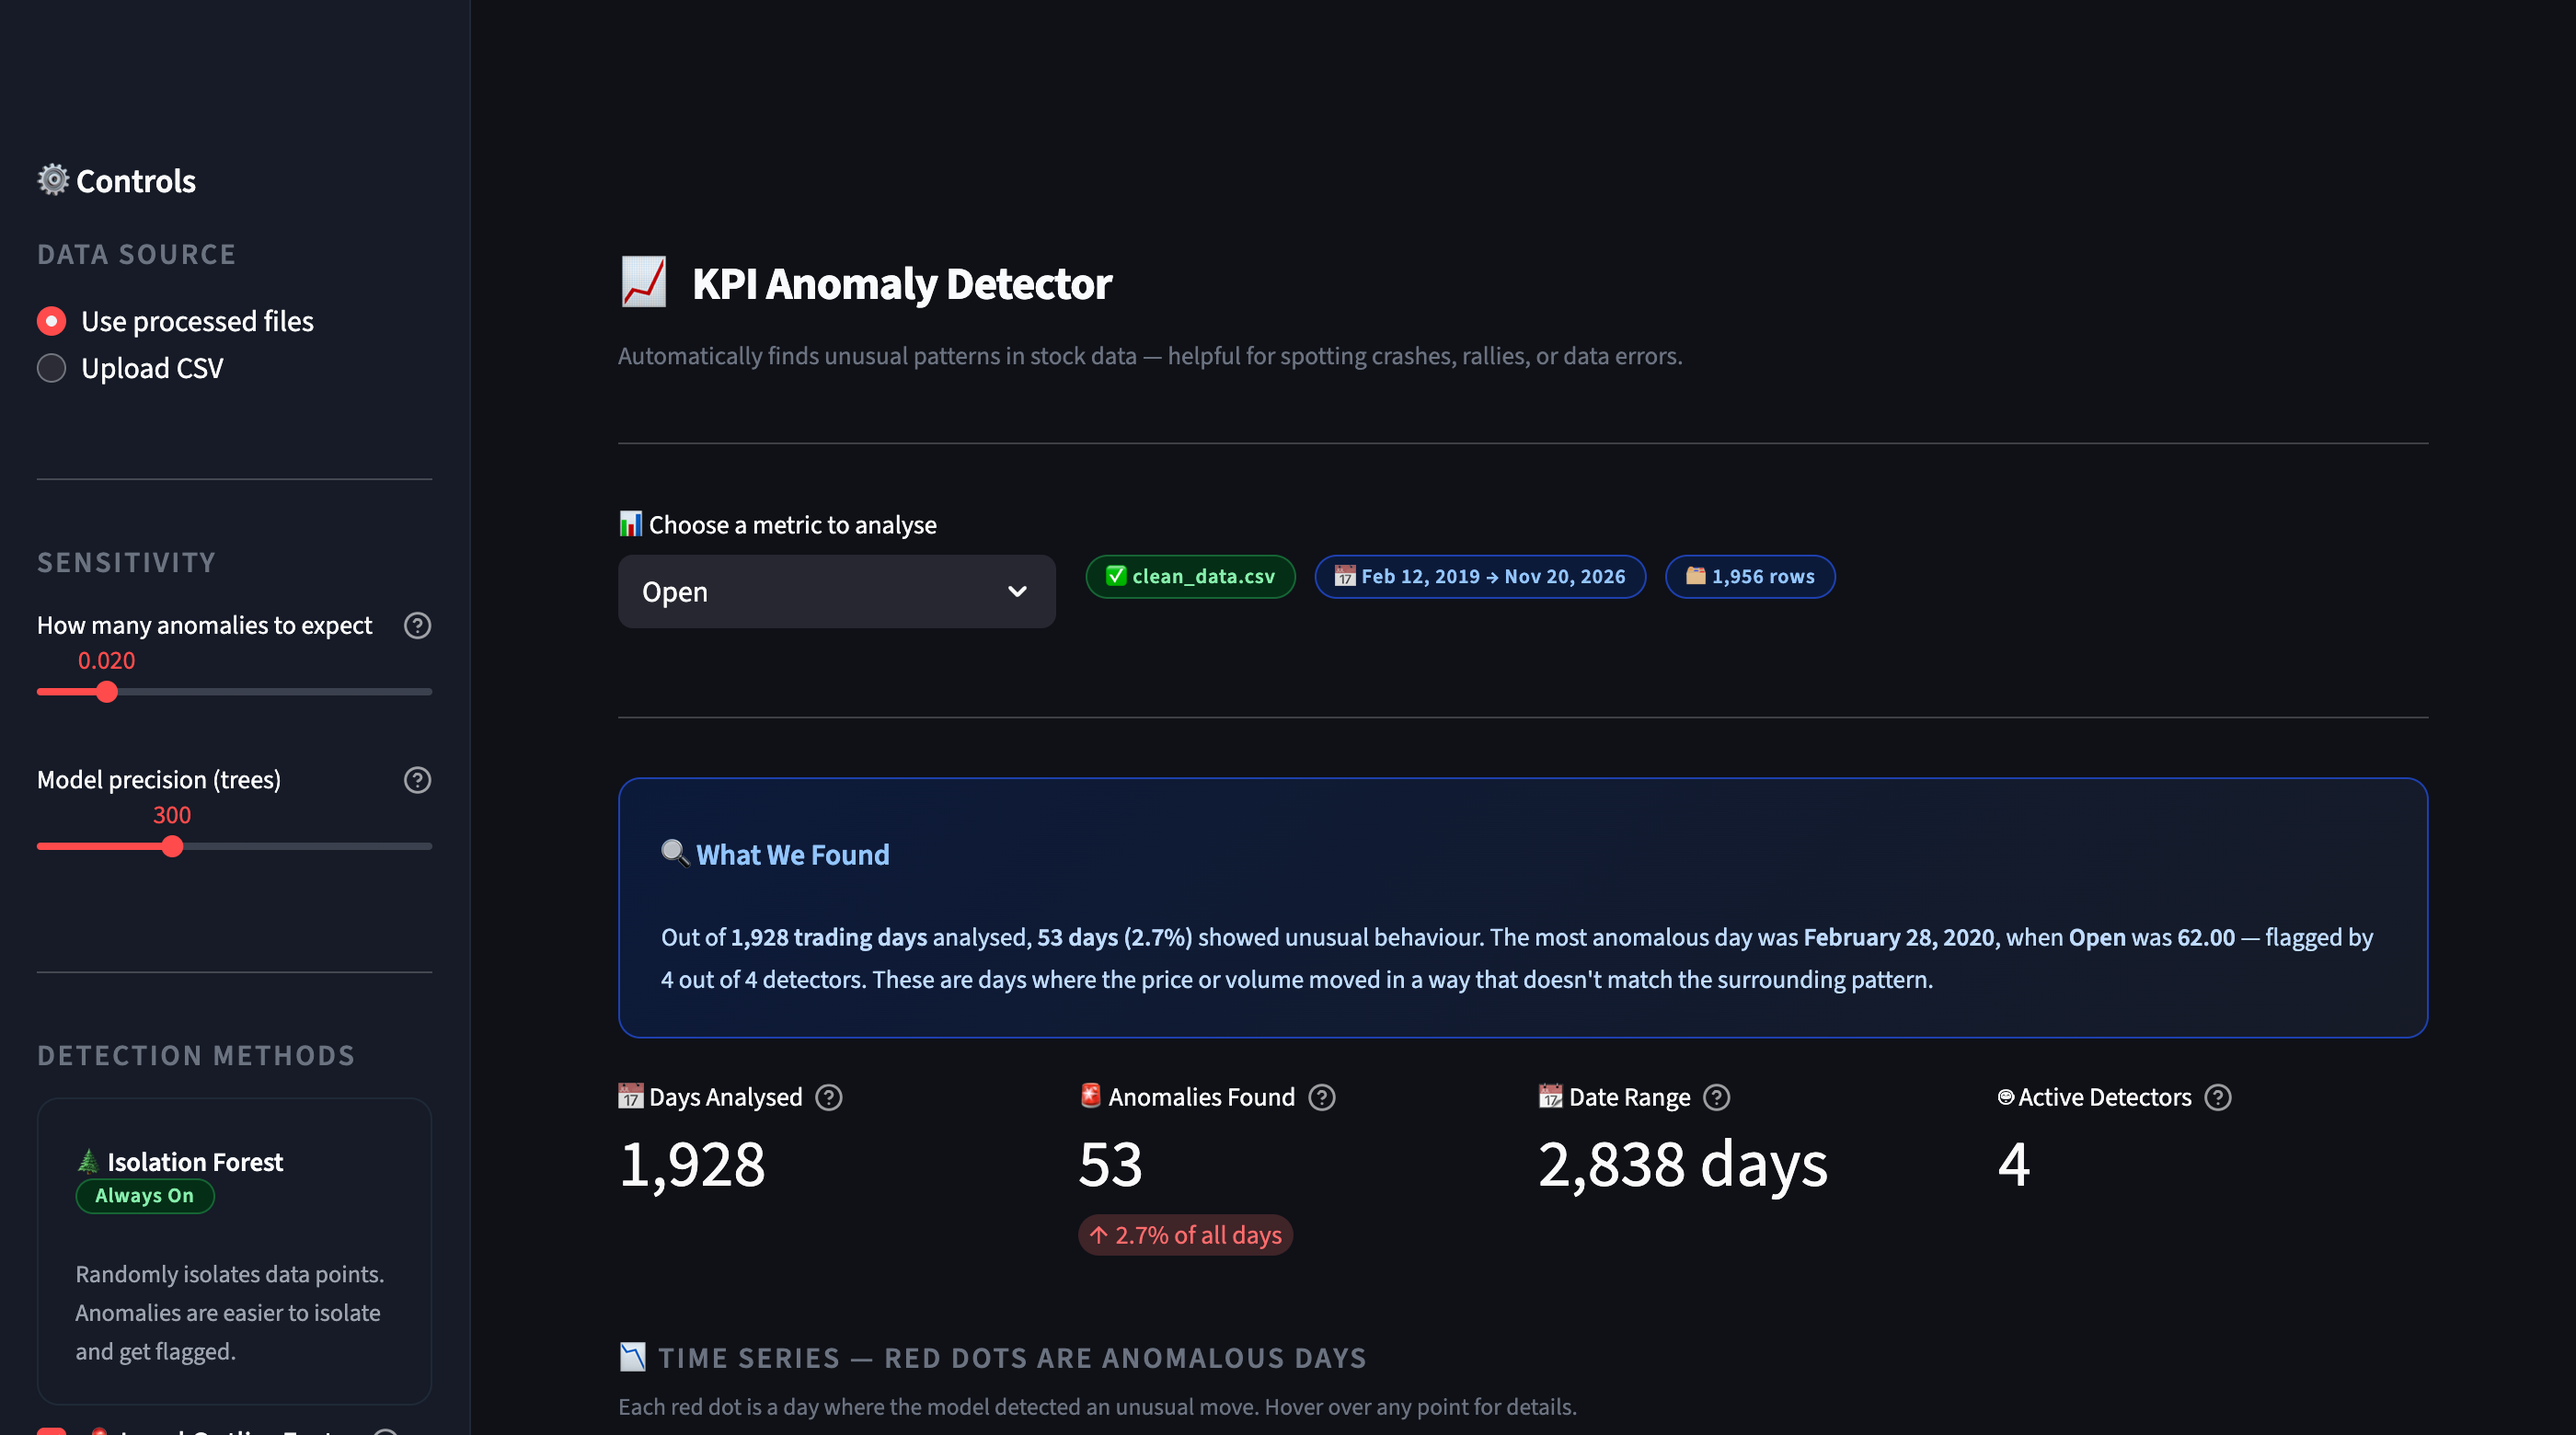
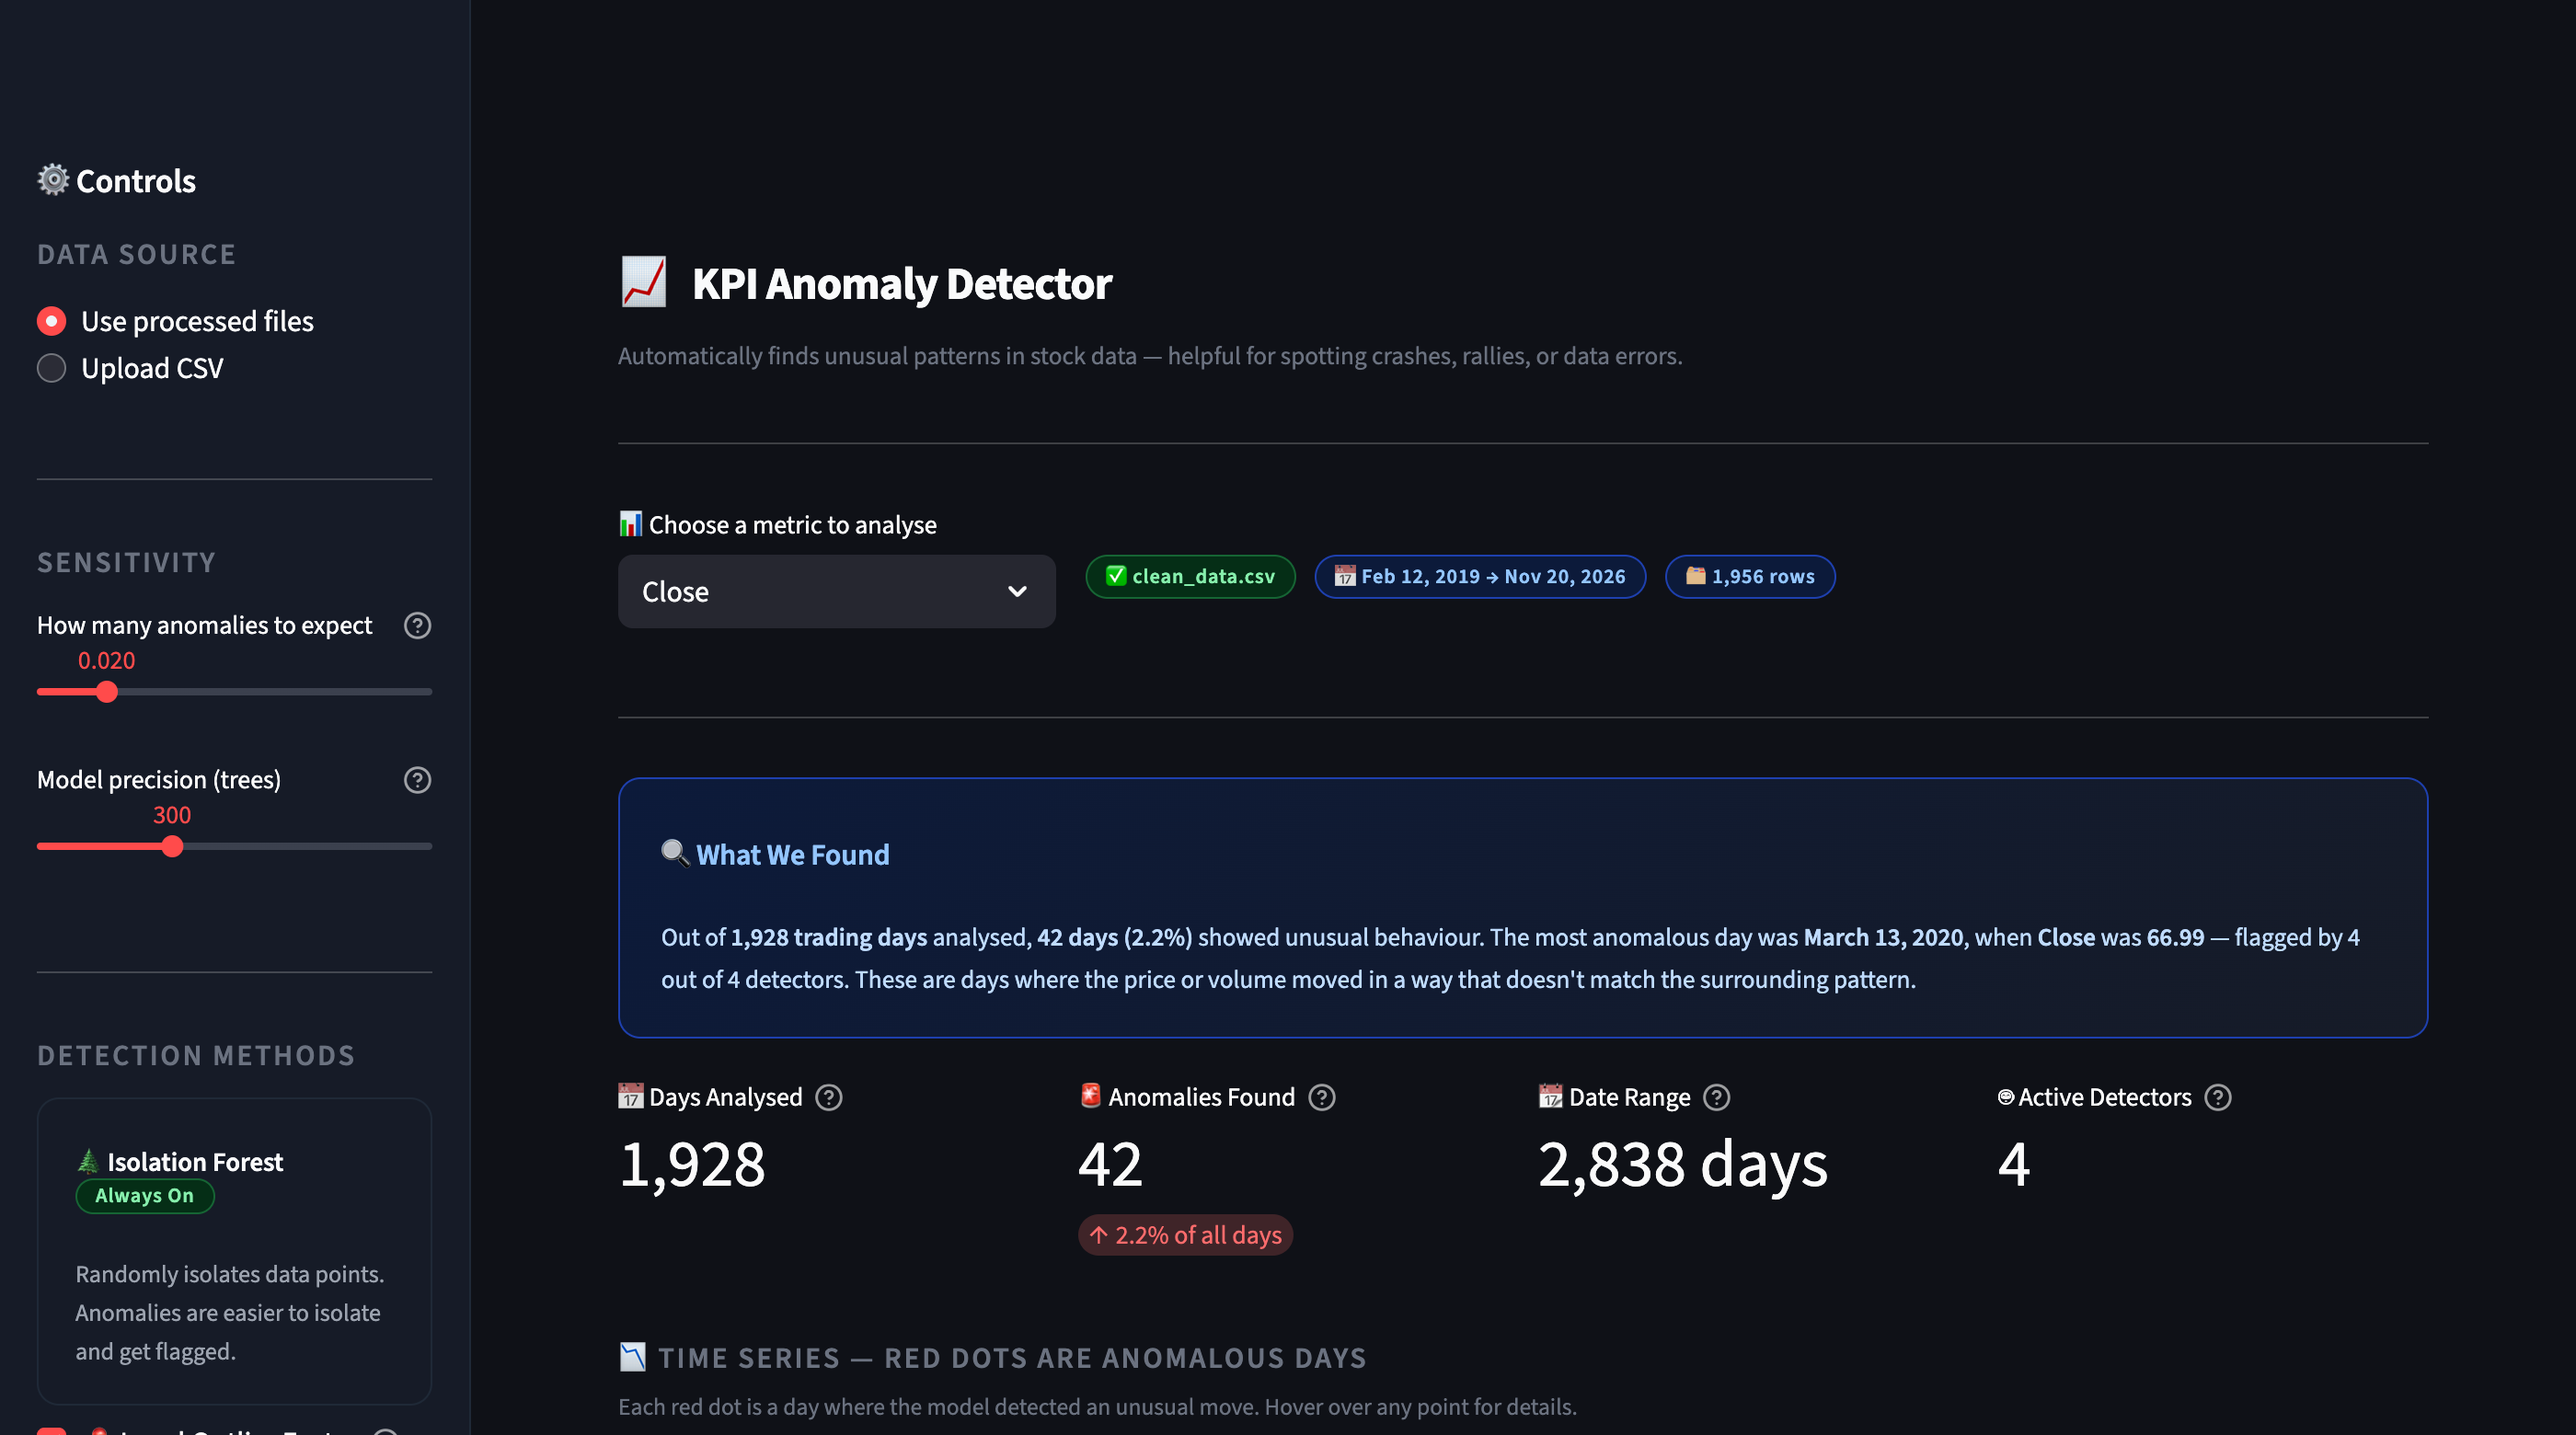
Default dashboard to Close, note dashboard vs results, tidy header

Changed region(s): [[0.2486, 0.6462, 0.9321, 0.7077], [0.4039, 0.8, 0.435, 0.8308], [0.2486, 0.4, 0.2796, 0.4308]]

diff --git a/app.py b/app.py
@@ -250,7 +250,8 @@ if not numeric_cols:
 
 kpi_col, info_col = st.columns([1, 3])
 with kpi_col:
-    kpi = st.selectbox("📊 Choose a metric to analyse", numeric_cols, index=0)
+    default_idx = numeric_cols.index("Close") if "Close" in numeric_cols else 0
+    kpi = st.selectbox("📊 Choose a metric to analyse", numeric_cols, index=default_idx)
 with info_col:
     date_min = df_input[date_col].min()
     date_max = df_input[date_col].max()

diff --git a/src/__init__.py b/src/__init__.py
@@ -1,6 +1,4 @@
-# kpi_anomaly package initializer
-
-# Exports all key modules for convenient importing
+# src package initializer: re-exports the loaders, features, detectors, evaluation and plots
 
 from .config import load_config
 from .io import find_data_dir, load_processed, read_csv_auto, load_yfinance

diff --git a/README.md b/README.md
@@ -79,6 +79,7 @@ The ML detectors see only these six stationary features (`feature_columns` in `s
 ### Streamlit Dashboard
 - Opens on the frozen sample data in `data/raw/aapl_snapshot.csv`; an uploaded CSV can be used instead. It does not fetch from Yahoo Finance itself
 - Select any numeric KPI column to analyse
+- Defaults differ from the Results table: One-Class SVM is off, so 4 detectors vote, and features are rebuilt from the raw columns. On Close at default settings it flags 42 of 1,928 days; turn One-Class SVM on to compare with the 5-detector numbers above
 - Severity labels (High / Medium / Low) based on how many detectors agree
 - Summary card with the anomaly count and the most anomalous day
 - Annotated time-series chart with hover tooltips
@@ -199,6 +200,7 @@ SHAP values from the Isolation Forest attribute each flag to features. `explain_
 
 - **Modest gain over a naive baseline.** Ranking days by absolute log return alone matches the ensemble at K=5 and K=20 and trails it by one hit at K=10 (40% vs 50%). With 15 events, that one hit is within noise. Treat the ensemble as a reasonable ranking, not a proven improvement.
 - **Results depend on the data pull.** Yahoo adjusts historical prices, so a fresh pull of the same dates gave One-Class SVM 44 flags, consensus 49, P@5 40%, P@10 30% and R@10 26.7%. The numbers above are for the saved `clean_data.csv`. `configs/default.yaml` fixes the end date, but the prices themselves can still shift.
+- **Flagged but unscored days.** The top 10 also includes 2025-04-04 and 2025-04-09, and 2020-07-31, 2020-03-24 and 2020-03-20. None is in `KNOWN_EVENTS`, so they count as misses even if they were real moves.
 - **`KNOWN_EVENTS` stops at 2024.** It has no 2025 or 2026 events. They were left out on purpose: adding events after seeing the flags would be tuning on the test set. Flags in those years go unscored.
 
 - **Hand-picked ground truth.** `KNOWN_EVENTS` has 15 dates, and 6 of them are in March 2020. A model that only catches the COVID crash scores well on precision.
